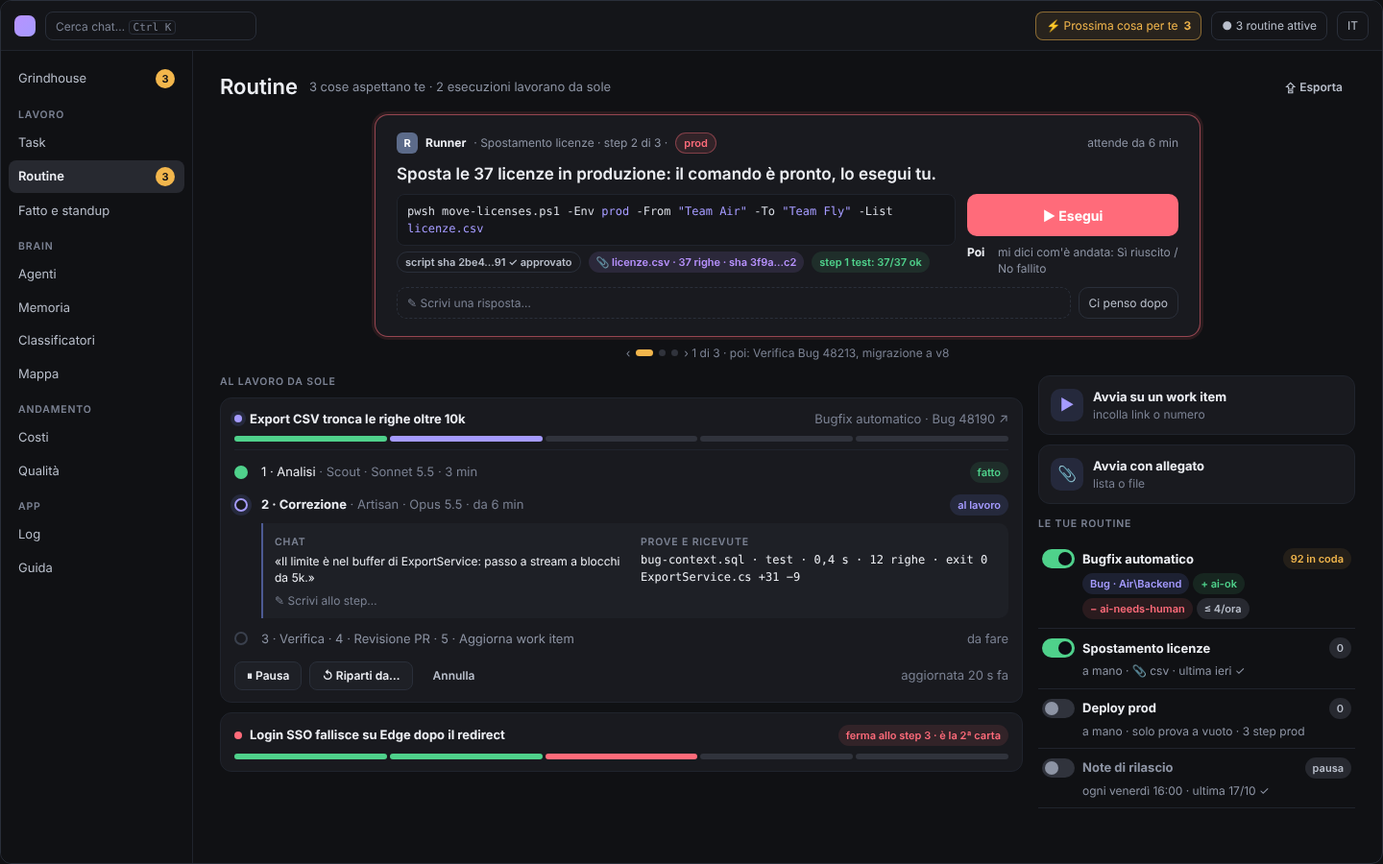
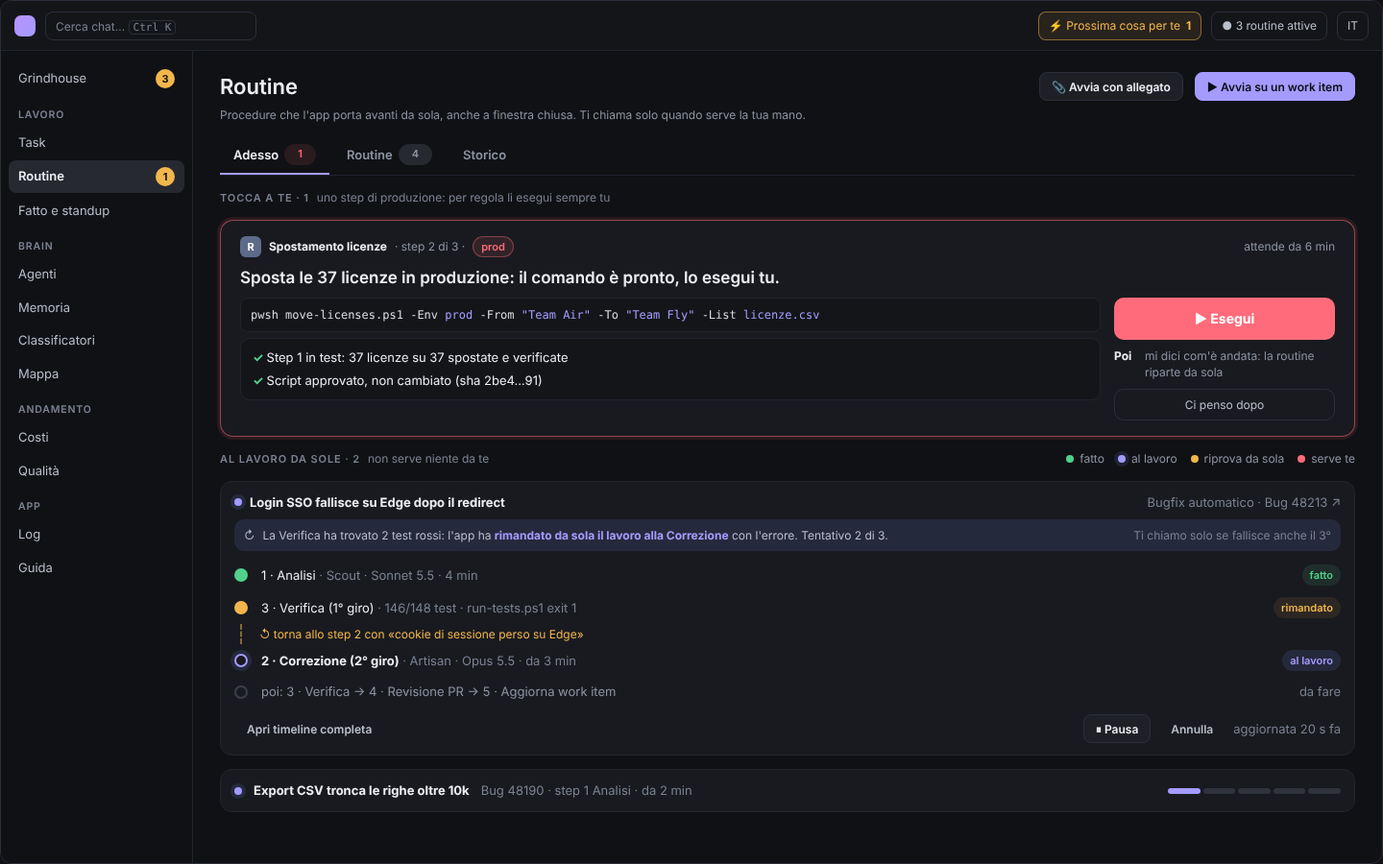
docs(flows): Routine mockup B v2 after the owner's pick
Tabs Adesso / Routine / Storico, only what needs the owner on top, runs
that send work back to a step by themselves, every routine explained,
an open routine with steps, models, failure policy, filters and queue.

Claude-Session: https://claude.ai/code/session_01Ro8TYNim3E3XRNtfSeShBC

diff --git a/docs/mockups/routines/b-una-cosa.html b/docs/mockups/routines/b-una-cosa.html
@@ -1,6 +1,6 @@
 <!doctype html>
-<!-- Routine page mockup B, "Una cosa alla volta": one big next-action card on top (a deck you page through), running
-     work as cards with an inline vertical timeline, routines as a slim side list. Static proposal, no app code. -->
+<!-- Routine page mockup B, "Una cosa alla volta": v2 after the owner picked B: tabs Adesso / Routine / Storico, one card
+     only for what needs him, runs that heal themselves, every routine explained. Static proposal, no app code. -->
 <html lang="it"><head><meta charset="utf-8"><title>Routine · proposta B</title>
 <link rel="stylesheet" href="mockup.css">
 <style>
@@ -45,17 +45,46 @@ th { color: var(--text-4); font-weight: 600; }
 .pst .card { padding: 10px 12px; margin-bottom: 10px; display: flex; flex-direction: column; gap: 6px; }
 .pst.prod .card { border-color: color-mix(in srgb, var(--red) 45%, transparent); }
 </style></head><body>
+<style>
+.tabsb { display: flex; gap: 4px; border-bottom: 1px solid var(--border); }
+.tabsb span { padding: 8px 14px; font-weight: 600; color: var(--text-3); border-bottom: 2px solid transparent; display: flex; gap: 6px; align-items: center; }
+.tabsb span.on { color: var(--text); border-color: var(--blue); }
+.intro { color: var(--text-3); font-size: var(--fs-s); margin-top: -8px; }
+.sec-h { display: flex; align-items: baseline; gap: 8px; }
+.sec-h .label { font-size: 11px; }
+.sec-h .why { color: var(--text-4); font-size: var(--fs-s); }
+.legend { display: flex; gap: 14px; font-size: var(--fs-s); color: var(--text-3); align-items: center; }
+.legend span { display: flex; gap: 6px; align-items: center; }
+.heal { display: flex; align-items: center; gap: 8px; padding: 8px 10px; border-radius: var(--r-m); background: var(--blue-bg); color: var(--text-2); font-size: var(--fs-s); }
+.heal b { color: var(--blue); }
+.ast.fail .n { background: var(--amber); border-color: var(--amber); }
+.loop { margin-left: 6px; border-left: 2px dashed var(--amber-line); padding: 2px 0 2px 18px; font-size: var(--fs-s); color: var(--amber); }
+.calm { display: flex; align-items: center; gap: 10px; padding: 12px 14px; border-radius: var(--r-l); border: 1px dashed var(--border-2); color: var(--text-3); }
+.rgrid { display: grid; grid-template-columns: 1fr 1fr; gap: 12px; }
+.rcard { padding: 14px; display: flex; flex-direction: column; gap: 8px; }
+.kv { display: grid; grid-template-columns: 110px 1fr; gap: 6px 10px; font-size: var(--fs-s); align-items: center; }
+.kv .k { color: var(--text-4); }
+.kv .v { display: flex; gap: 4px; flex-wrap: wrap; align-items: center; }
+.cfg { display: grid; grid-template-columns: 1fr 360px; gap: 16px; flex: 1; min-height: 0; padding-bottom: 16px; }
+.cst { display: grid; grid-template-columns: 30px 1fr; gap: 0 12px; }
+.cst .rail { display: flex; flex-direction: column; align-items: center; }
+.cst .rail b { width: 26px; height: 26px; border-radius: 50%; display: grid; place-items: center; background: var(--surface-3); font-size: 12px; }
+.cst .rail i { flex: 1; width: 2px; background: var(--border-2); }
+.cst.prod .rail b { background: var(--red-bg); color: var(--red); border: 1.5px solid var(--red); }
+.cst .card { padding: 9px 12px; margin-bottom: 8px; display: flex; flex-direction: column; gap: 5px; font-size: var(--fs-s); }
+.qrow { display: grid; grid-template-columns: 1fr auto; gap: 8px; padding: 6px 0; border-bottom: 1px solid var(--border); font-size: var(--fs-s); }
+</style>
 
-<p class="caption">Proposta B · Una cosa alla volta · schermata principale</p>
+<p class="caption">Proposta B v2 · «Adesso»: solo ciò che serve a te, il resto lavora da solo</p>
 <div class="frame">
   <div class="topbar"><span class="logo"></span><span class="search">Cerca chat… <span class="kbd">Ctrl K</span></span><span class="spacer"></span>
-    <span class="pill amber">⚡ Prossima cosa per te <b>3</b></span><span class="pill">● 3 routine attive</span><span class="pill">IT</span></div>
+    <span class="pill amber">⚡ Prossima cosa per te <b>1</b></span><span class="pill">● 3 routine attive</span><span class="pill">IT</span></div>
   <div class="body">
     <nav class="side">
       <div class="it">Grindhouse <span class="badge">3</span></div>
       <div class="sec">LAVORO</div>
       <div class="it">Task</div>
-      <div class="it on">Routine <span class="badge">3</span></div>
+      <div class="it on">Routine <span class="badge">1</span></div>
       <div class="it">Fatto e standup</div>
       <div class="sec">BRAIN</div>
       <div class="it">Agenti</div><div class="it">Memoria</div><div class="it">Classificatori</div><div class="it">Mappa</div>
@@ -65,64 +94,163 @@ th { color: var(--text-4); font-weight: 600; }
       <div class="it">Log</div><div class="it">Guida</div>
     </nav>
     <main class="page">
-      <div class="head"><h1>Routine</h1><span class="sub">3 cose aspettano te · 2 esecuzioni lavorano da sole</span><span class="grow"></span><span class="btn ghost">⇪ Esporta</span></div>
+      <div class="head"><h1>Routine</h1><span class="grow"></span><span class="btn">📎 Avvia con allegato</span><span class="btn primary">▶ Avvia su un work item</span></div>
+      <div class="intro">Procedure che l'app porta avanti da sola, anche a finestra chiusa. Ti chiama solo quando serve la tua mano.</div>
+      <div class="tabsb"><span class="on">Adesso <span class="chip red">1</span></span><span>Routine <span class="chip">4</span></span><span>Storico</span></div>
 
-      <div class="focus">
-        <div class="decision redhot">
-          <div class="who"><span class="av r">R</span><b>Runner</b> · Spostamento licenze · step 2 di 3 · <span class="chip prod">prod</span><span class="grow"></span>attende da 6 min</div>
-          <p class="q">Sposta le 37 licenze in produzione: il comando è pronto, lo esegui tu.</p>
-          <div class="row" style="align-items:stretch;gap:12px">
-            <div class="grow" style="display:flex;flex-direction:column;gap:6px">
-              <div class="cmd">pwsh move-licenses.ps1 -Env <span class="p">prod</span> -From <span class="p">"Team Air"</span> -To <span class="p">"Team Fly"</span> -List <span class="p">licenze.csv</span></div>
-              <div class="row"><span class="chip out">script sha 2be4…91 ✓ approvato</span><span class="chip violet">📎 licenze.csv · 37 righe · sha 3f9a…c2</span><span class="chip green">step 1 test: 37/37 ok</span></div>
-            </div>
-            <div style="width:220px;display:flex;flex-direction:column;gap:8px">
-              <div class="run-btn">▶ Esegui</div>
-              <div class="yn-what"><b>Poi</b><span>mi dici com'è andata: Sì riuscito / No fallito</span></div>
-            </div>
+      <div class="sec-h"><span class="label">Tocca a te · 1</span><span class="why">uno step di produzione: per regola li esegui sempre tu</span></div>
+      <div class="decision redhot" style="padding:16px 20px">
+        <div class="who"><span class="av r">R</span><b>Spostamento licenze</b> · step 2 di 3 · <span class="chip prod">prod</span><span class="grow"></span>attende da 6 min</div>
+        <p class="q">Sposta le 37 licenze in produzione: il comando è pronto, lo esegui tu.</p>
+        <div class="row" style="align-items:stretch;gap:14px">
+          <div class="grow" style="display:flex;flex-direction:column;gap:6px">
+            <div class="cmd">pwsh move-licenses.ps1 -Env <span class="p">prod</span> -From <span class="p">"Team Air"</span> -To <span class="p">"Team Fly"</span> -List <span class="p">licenze.csv</span></div>
+            <div class="proof"><span class="ok">Step 1 in test: 37 licenze su 37 spostate e verificate</span><span class="ok">Script approvato, non cambiato (sha 2be4…91)</span></div>
           </div>
-          <div class="yn-more"><span>✎ Scrivi una risposta…</span><span>Ci penso dopo</span></div>
+          <div style="width:230px;display:flex;flex-direction:column;gap:8px">
+            <div class="run-btn">▶ Esegui</div>
+            <div class="yn-what"><b>Poi</b><span>mi dici com'è andata: la routine riparte da sola</span></div>
+            <div class="yn-more" style="grid-template-columns:1fr"><span style="border-style:solid;color:var(--text-2);text-align:center">Ci penso dopo</span></div>
+          </div>
         </div>
-        <div class="pager">‹ <i class="on"></i><i></i><i></i> › 1 di 3 · poi: Verifica Bug 48213, migrazione a v8</div>
       </div>
 
-      <div class="split">
-        <div style="display:flex;flex-direction:column;gap:10px;min-height:0">
-          <span class="label">Al lavoro da sole</span>
-          <div class="card runcard">
-            <div class="row"><span class="dot blue"></span><b class="grow">Export CSV tronca le righe oltre 10k</b><span class="faint">Bugfix automatico · Bug 48190 ↗</span></div>
-            <div class="segs"><i class="g"></i><i class="b"></i><i></i><i></i><i></i></div>
-            <div class="acc">
-              <div class="ast done"><span class="n"></span><span>1 · Analisi <span class="faint">· Scout · Sonnet 5.5 · 3 min</span></span><span class="chip green">fatto</span></div>
-              <div class="ast now"><span class="n"></span><span><b>2 · Correzione</b> <span class="faint">· Artisan · Opus 5.5 · da 6 min</span></span><span class="chip blue">al lavoro</span></div>
-              <div class="open">
-                <div><span class="label">Chat</span><div style="margin-top:4px">«Il limite è nel buffer di ExportService: passo a stream a blocchi da 5k.»</div><div class="faint" style="margin-top:6px">✎ Scrivi allo step…</div></div>
-                <div><span class="label">Prove e ricevute</span><div style="margin-top:4px;display:flex;flex-direction:column;gap:4px">
-                  <span class="mono">bug-context.sql · test · 0,4 s · 12 righe · exit 0</span>
-                  <span class="mono">ExportService.cs +31 −9</span></div></div>
-              </div>
-              <div class="ast"><span class="n"></span><span class="muted">3 · Verifica · 4 · Revisione PR · 5 · Aggiorna work item</span><span class="faint">da fare</span></div>
-            </div>
-            <div class="row"><span class="btn">⏸ Pausa</span><span class="btn">↺ Riparti da…</span><span class="btn ghost">Annulla</span><span class="grow"></span><span class="faint">aggiornata 20 s fa</span></div>
-          </div>
-          <div class="card runcard">
-            <div class="row"><span class="dot red"></span><b class="grow">Login SSO fallisce su Edge dopo il redirect</b><span class="chip red">ferma allo step 3 · è la 2ª carta</span></div>
-            <div class="segs"><i class="g"></i><i class="g"></i><i class="r"></i><i></i><i></i></div>
+      <div class="sec-h"><span class="label">Al lavoro da sole · 2</span><span class="why">non serve niente da te</span><span class="grow"></span>
+        <div class="legend"><span><span class="dot green"></span>fatto</span><span><span class="dot blue"></span>al lavoro</span><span><span class="dot amber"></span>riprova da sola</span><span><span class="dot red"></span>serve te</span></div></div>
+      <div class="card runcard">
+        <div class="row"><span class="dot blue"></span><b class="grow">Login SSO fallisce su Edge dopo il redirect</b><span class="faint">Bugfix automatico · Bug 48213 ↗</span></div>
+        <div class="heal">↻ <span class="grow">La Verifica ha trovato 2 test rossi: l'app ha <b>rimandato da sola il lavoro alla Correzione</b> con l'errore. Tentativo 2 di 3.</span><span class="faint">Ti chiamo solo se fallisce anche il 3°</span></div>
+        <div class="acc" style="border:0;padding:0">
+          <div class="ast done"><span class="n"></span><span>1 · Analisi <span class="faint">· Scout · Sonnet 5.5 · 4 min</span></span><span class="chip green">fatto</span></div>
+          <div class="ast fail"><span class="n"></span><span>3 · Verifica (1° giro) <span class="faint">· 146/148 test · run-tests.ps1 exit 1</span></span><span class="chip amber">rimandato</span></div>
+          <div class="loop">↺ torna allo step 2 con «cookie di sessione perso su Edge»</div>
+          <div class="ast now"><span class="n"></span><span><b>2 · Correzione (2° giro)</b> <span class="faint">· Artisan · Opus 5.5 · da 3 min</span></span><span class="chip blue">al lavoro</span></div>
+          <div class="ast"><span class="n"></span><span class="muted">poi: 3 · Verifica → 4 · Revisione PR → 5 · Aggiorna work item</span><span class="faint">da fare</span></div>
+        </div>
+        <div class="row"><span class="btn ghost">Apri timeline completa</span><span class="grow"></span><span class="btn">⏸ Pausa</span><span class="btn ghost">Annulla</span><span class="faint">aggiornata 20 s fa</span></div>
+      </div>
+      <div class="card runcard" style="flex-direction:row;align-items:center;gap:12px">
+        <span class="dot blue"></span><b>Export CSV tronca le righe oltre 10k</b><span class="faint grow">Bug 48190 · step 1 Analisi · da 2 min</span>
+        <div class="segs" style="width:180px"><i class="b"></i><i></i><i></i><i></i><i></i></div></div>
+    </main>
+  </div>
+</div>
+
+<p class="caption">Proposta B v2 · «Routine»: ogni routine spiegata, accesa o in pausa</p>
+<div class="frame">
+  <div class="topbar"><span class="logo"></span><span class="search">Cerca chat… <span class="kbd">Ctrl K</span></span><span class="spacer"></span>
+    <span class="pill amber">⚡ Prossima cosa per te <b>1</b></span><span class="pill">● 3 routine attive</span><span class="pill">IT</span></div>
+  <div class="body">
+    <nav class="side">
+      <div class="it">Grindhouse <span class="badge">3</span></div>
+      <div class="sec">LAVORO</div>
+      <div class="it">Task</div>
+      <div class="it on">Routine <span class="badge">1</span></div>
+      <div class="it">Fatto e standup</div>
+      <div class="sec">BRAIN</div>
+      <div class="it">Agenti</div><div class="it">Memoria</div><div class="it">Classificatori</div><div class="it">Mappa</div>
+      <div class="sec">ANDAMENTO</div>
+      <div class="it">Costi</div><div class="it">Qualità</div>
+      <div class="sec">APP</div>
+      <div class="it">Log</div><div class="it">Guida</div>
+    </nav>
+    <main class="page">
+      <div class="head"><h1>Routine</h1><span class="grow"></span><span class="btn">✦ Nuova routine con l'Orchestrator</span><span class="btn primary">▶ Avvia su un work item</span></div>
+      <div class="tabsb"><span>Adesso <span class="chip red">1</span></span><span class="on">Routine <span class="chip">4</span></span><span>Storico</span></div>
+      <div class="rgrid">
+        <div class="card rcard">
+          <div class="row"><span class="toggle on"></span><b class="grow" style="font-size:var(--fs-l)">Bugfix automatico</b><span class="chip green">attiva</span><span class="chip">v7</span></div>
+          <div class="muted" style="font-size:var(--fs-s)">Prende i bug marcati, li corregge, apre la PR e aggiorna il work item.</div>
+          <div class="kv">
+            <span class="k">Quando parte</span><span class="v">nuovo bug DevOps in <span class="chip">Air\Backend</span></span>
+            <span class="k">Solo se</span><span class="v"><span class="chip green">+ ai-ok</span><span class="chip red">− ai-needs-human</span><span class="chip">max 4/ora</span></span>
+            <span class="k">In attesa</span><span class="v"><span class="chip amber">92 eventi</span><span class="btn ghost" style="height:24px">Svuota…</span></span>
+            <span class="k">Ultima</span><span class="v">12 min fa ✓ · 2 in corso</span>
           </div>
         </div>
-        <div style="display:flex;flex-direction:column;gap:10px">
-          <div class="card tile"><span class="ic">▶</span><div class="grow"><b>Avvia su un work item</b><div class="faint" style="font-size:var(--fs-s)">incolla link o numero</div></div></div>
-          <div class="card tile"><span class="ic">📎</span><div class="grow"><b>Avvia con allegato</b><div class="faint" style="font-size:var(--fs-s)">lista o file</div></div></div>
-          <span class="label" style="margin-top:4px">Le tue routine</span>
-          <div>
-            <div class="rrow"><span class="toggle on"></span><b>Bugfix automatico</b><span class="chip amber">92 in coda</span>
-              <div class="sub"><span class="chip blue">Bug · Air\Backend</span><span class="chip green">+ ai-ok</span><span class="chip red">− ai-needs-human</span><span class="chip">≤ 4/ora</span></div></div>
-            <div class="rrow"><span class="toggle on"></span><b>Spostamento licenze</b><span class="chip">0</span>
-              <div class="sub">a mano · 📎 csv · ultima ieri ✓</div></div>
-            <div class="rrow"><span class="toggle"></span><b>Deploy prod</b><span class="chip">0</span>
-              <div class="sub">a mano · solo prova a vuoto · 3 step prod</div></div>
-            <div class="rrow"><span class="toggle"></span><b class="muted">Note di rilascio</b><span class="chip">pausa</span>
-              <div class="sub">ogni venerdì 16:00 · ultima 17/10 ✓</div></div>
+        <div class="card rcard">
+          <div class="row"><span class="toggle on"></span><b class="grow" style="font-size:var(--fs-l)">Spostamento licenze</b><span class="chip green">attiva</span><span class="chip">v2</span></div>
+          <div class="muted" style="font-size:var(--fs-s)">Sposta una lista di licenze tra team: prima in test, poi in prod (lo esegui tu).</div>
+          <div class="kv">
+            <span class="k">Quando parte</span><span class="v">solo a mano, con allegato .csv</span>
+            <span class="k">Prod</span><span class="v"><span class="chip prod">1 step: lo esegui tu</span></span>
+            <span class="k">In attesa</span><span class="v">nulla</span>
+            <span class="k">Ultima</span><span class="v">ieri 17:40 ✓ · 1 aspetta te</span>
+          </div>
+        </div>
+        <div class="card rcard">
+          <div class="row"><span class="toggle"></span><b class="grow" style="font-size:var(--fs-l)">Deploy prod</b><span class="chip">solo prova</span><span class="chip">v1</span></div>
+          <div class="muted" style="font-size:var(--fs-s)">Query pre-deploy, migrazioni DB e release Azure. Oggi gira solo a vuoto.</div>
+          <div class="kv"><span class="k">Quando parte</span><span class="v">solo a mano</span><span class="k">Prod</span><span class="v"><span class="chip prod">3 step: li esegui tu</span></span></div>
+        </div>
+        <div class="card rcard">
+          <div class="row"><span class="toggle"></span><b class="grow muted" style="font-size:var(--fs-l)">Note di rilascio</b><span class="chip">in pausa</span><span class="chip">v3</span></div>
+          <div class="muted" style="font-size:var(--fs-s)">Scrive le note di rilascio dalle PR della settimana.</div>
+          <div class="kv"><span class="k">Quando parte</span><span class="v">ogni venerdì alle 16:00</span><span class="k">Ultima</span><span class="v">17/10 ✓</span></div>
+        </div>
+      </div>
+    </main>
+  </div>
+</div>
+
+<p class="caption">Proposta B v2 · una routine aperta: trigger, filtri, passaggi con modello, cosa fare se fallisce, coda</p>
+<div class="frame">
+  <div class="topbar"><span class="logo"></span><span class="search">Cerca chat… <span class="kbd">Ctrl K</span></span><span class="spacer"></span>
+    <span class="pill amber">⚡ Prossima cosa per te <b>1</b></span><span class="pill">● 3 routine attive</span><span class="pill">IT</span></div>
+  <div class="body">
+    <nav class="side">
+      <div class="it">Grindhouse <span class="badge">3</span></div>
+      <div class="sec">LAVORO</div>
+      <div class="it">Task</div>
+      <div class="it on">Routine <span class="badge">1</span></div>
+      <div class="it">Fatto e standup</div>
+      <div class="sec">BRAIN</div>
+      <div class="it">Agenti</div><div class="it">Memoria</div><div class="it">Classificatori</div><div class="it">Mappa</div>
+      <div class="sec">ANDAMENTO</div>
+      <div class="it">Costi</div><div class="it">Qualità</div>
+      <div class="sec">APP</div>
+      <div class="it">Log</div><div class="it">Guida</div>
+    </nav>
+    <main class="page">
+      <div class="head"><span class="btn ghost">‹ Routine</span><span class="toggle on"></span><h1>Bugfix automatico</h1><span class="chip">v7</span><span class="grow"></span>
+        <span class="btn ghost">⇪ Esporta</span><span class="btn">◎ Prova a vuoto</span><span class="btn">✎ Modifica con l'Orchestrator</span><span class="btn primary">▶ Avvia su un work item</span></div>
+      <div class="cfg">
+        <div style="display:flex;flex-direction:column;gap:8px;min-height:0">
+          <span class="label">Passaggi · ognuno con chi lo fa, il modello e cosa succede se fallisce</span>
+          <div class="cst"><div class="rail"><b>1</b><i></i></div><div class="card">
+            <div class="row"><b class="grow">Analisi</b><span class="av s" style="width:18px;height:18px">S</span>Scout<span class="chip">Sonnet 5.5 · medio</span></div>
+            <div class="row"><span class="chip out">query bug-context.sql · test · sola lettura · sha a1d4…</span></div></div></div>
+          <div class="cst"><div class="rail"><b>2</b><i></i></div><div class="card">
+            <div class="row"><b class="grow">Correzione</b><span class="av a" style="width:18px;height:18px">A</span>Artisan<span class="chip">Opus 5.5 · alto</span></div>
+            <div class="faint">Lavora su un ramo, mai su main.</div></div></div>
+          <div class="cst"><div class="rail"><b>3</b><i></i></div><div class="card">
+            <div class="row"><b class="grow">Verifica</b><span class="av n" style="width:18px;height:18px">S</span>Sentinel<span class="chip">Opus 5.5 · alto</span></div>
+            <div class="row"><span class="chip out">script run-tests.ps1 · sha 9c1e…a7 ✓</span><span class="chip">-Filter <i>dal bug</i> · -Env test</span></div>
+            <div class="row"><span class="chip amber">se fallisce: torna allo step 2, max 3 volte, poi chiama te</span></div></div></div>
+          <div class="cst"><div class="rail"><b>4</b><i></i></div><div class="card">
+            <div class="row"><b class="grow">Revisione PR</b><span class="av n" style="width:18px;height:18px">S</span>Sentinel<span class="chip">Opus 5.5 · alto</span></div></div></div>
+          <div class="cst"><div class="rail"><b>5</b></div><div class="card">
+            <div class="row"><b class="grow">Aggiorna work item</b><span class="av r" style="width:18px;height:18px">H</span>Herald<span class="chip">Haiku 5.5 · basso</span></div>
+            <div class="faint">Commento + stato «Resolved». Solo DevOps, nessuna produzione.</div></div></div>
+        </div>
+        <div style="display:flex;flex-direction:column;gap:12px">
+          <div class="card rcard">
+            <span class="label">Quando parte</span>
+            <div class="kv">
+              <span class="k">Evento</span><span class="v">nuovo bug o nuova revisione</span>
+              <span class="k">Area</span><span class="v"><span class="chip">Air\Backend</span><span class="chip">Sprint corrente</span></span>
+              <span class="k">Tag richiesti</span><span class="v"><span class="chip green">+ ai-ok</span></span>
+              <span class="k">Tag esclusi</span><span class="v"><span class="chip red">− ai-needs-human</span></span>
+              <span class="k">Solo questi id</span><span class="v faint">tutti</span>
+              <span class="k">Limite</span><span class="v">max 4 all'ora · 1 run per work item</span>
+            </div>
+          </div>
+          <div class="card rcard">
+            <div class="row"><span class="label grow">In attesa · 92</span><span class="btn danger" style="height:26px">Svuota 92…</span></div>
+            <div class="qrow"><span>Bug 48240 · Timeout sul login</span><span class="faint">arrivato 09:12</span></div>
+            <div class="qrow"><span>Bug 48238 · Totale IVA errato</span><span class="faint">09:05</span></div>
+            <div class="qrow"><span>Bug 48231 · PDF fattura arrotonda</span><span class="faint">08:58</span></div>
+            <span class="faint" style="font-size:var(--fs-s)">… altri 89 · partono quando la routine è attiva, max 4 all'ora</span>
           </div>
         </div>
       </div>
@@ -130,16 +258,16 @@ th { color: var(--text-4); font-weight: 600; }
   </div>
 </div>
 
-<p class="caption">Proposta B · Avvia con allegato (procedura in 3 passi)</p>
+<p class="caption">Proposta B v2 · Avvia con allegato (procedura in 3 passi)</p>
 <div class="frame">
   <div class="topbar"><span class="logo"></span><span class="search">Cerca chat… <span class="kbd">Ctrl K</span></span><span class="spacer"></span>
-    <span class="pill amber">⚡ Prossima cosa per te <b>3</b></span><span class="pill">● 3 routine attive</span><span class="pill">IT</span></div>
+    <span class="pill amber">⚡ Prossima cosa per te <b>1</b></span><span class="pill">● 3 routine attive</span><span class="pill">IT</span></div>
   <div class="body">
     <nav class="side">
       <div class="it">Grindhouse <span class="badge">3</span></div>
       <div class="sec">LAVORO</div>
       <div class="it">Task</div>
-      <div class="it on">Routine <span class="badge">3</span></div>
+      <div class="it on">Routine <span class="badge">1</span></div>
       <div class="it">Fatto e standup</div>
       <div class="sec">BRAIN</div>
       <div class="it">Agenti</div><div class="it">Memoria</div><div class="it">Classificatori</div><div class="it">Mappa</div>
@@ -178,16 +306,16 @@ th { color: var(--text-4); font-weight: 600; }
   </div>
 </div>
 
-<p class="caption">Proposta B · Prova a vuoto (dry-run) a tutta pagina</p>
+<p class="caption">Proposta B v2 · Prova a vuoto (dry-run) a tutta pagina</p>
 <div class="frame">
   <div class="topbar"><span class="logo"></span><span class="search">Cerca chat… <span class="kbd">Ctrl K</span></span><span class="spacer"></span>
-    <span class="pill amber">⚡ Prossima cosa per te <b>3</b></span><span class="pill">● 3 routine attive</span><span class="pill">IT</span></div>
+    <span class="pill amber">⚡ Prossima cosa per te <b>1</b></span><span class="pill">● 3 routine attive</span><span class="pill">IT</span></div>
   <div class="body">
     <nav class="side">
       <div class="it">Grindhouse <span class="badge">3</span></div>
       <div class="sec">LAVORO</div>
       <div class="it">Task</div>
-      <div class="it on">Routine <span class="badge">3</span></div>
+      <div class="it on">Routine <span class="badge">1</span></div>
       <div class="it">Fatto e standup</div>
       <div class="sec">BRAIN</div>
       <div class="it">Agenti</div><div class="it">Memoria</div><div class="it">Classificatori</div><div class="it">Mappa</div>
@@ -218,16 +346,16 @@ sqlcmd … -i <span class="p">2026-10-24_02_indici.sql</span>   <span class="fai
     </main>
   </div>
 </div>
-<p class="caption">Proposta B · Esporta per un cloud agent (pagina)</p>
+<p class="caption">Proposta B v2 · Esporta per un cloud agent (pagina)</p>
 <div class="frame">
   <div class="topbar"><span class="logo"></span><span class="search">Cerca chat… <span class="kbd">Ctrl K</span></span><span class="spacer"></span>
-    <span class="pill amber">⚡ Prossima cosa per te <b>3</b></span><span class="pill">● 3 routine attive</span><span class="pill">IT</span></div>
+    <span class="pill amber">⚡ Prossima cosa per te <b>1</b></span><span class="pill">● 3 routine attive</span><span class="pill">IT</span></div>
   <div class="body">
     <nav class="side">
       <div class="it">Grindhouse <span class="badge">3</span></div>
       <div class="sec">LAVORO</div>
       <div class="it">Task</div>
-      <div class="it on">Routine <span class="badge">3</span></div>
+      <div class="it on">Routine <span class="badge">1</span></div>
       <div class="it">Fatto e standup</div>
       <div class="sec">BRAIN</div>
       <div class="it">Agenti</div><div class="it">Memoria</div><div class="it">Classificatori</div><div class="it">Mappa</div>

diff --git a/docs/mockups/routines/README.md b/docs/mockups/routines/README.md
@@ -35,3 +35,16 @@ choice only if you expect to watch many runs at once more than you answer them.
 ## Before
 
 `png/prima-app-reale.png`: the current Routine page with a run blocked on «Execution adapter unavailable».
+
+## Owner's choice (2026-10-24): B, revised as v2
+
+Asked: routines as a core feature, clear and self-explaining UI, no side column he could not read, and a bugfix run
+must not stop for him (it has no reason to need a person). `b-una-cosa.html` is now v2:
+
+- tabs **Adesso / Routine / Storico**; «Adesso» shows only what needs him (here a prod step), then the runs working
+  by themselves with a colour legend;
+- a failed check heals by itself: the routine sends the work back to the step it names, with the error, up to the
+  attempt limit; only the last failure calls him;
+- «Routine» explains each routine in plain words: what it does, when it starts, filters, queue, last run;
+- an open routine shows its steps with role, model and effort, scripts by hash, «se fallisce» per step, the
+  trigger filters and the queue with «Svuota».
